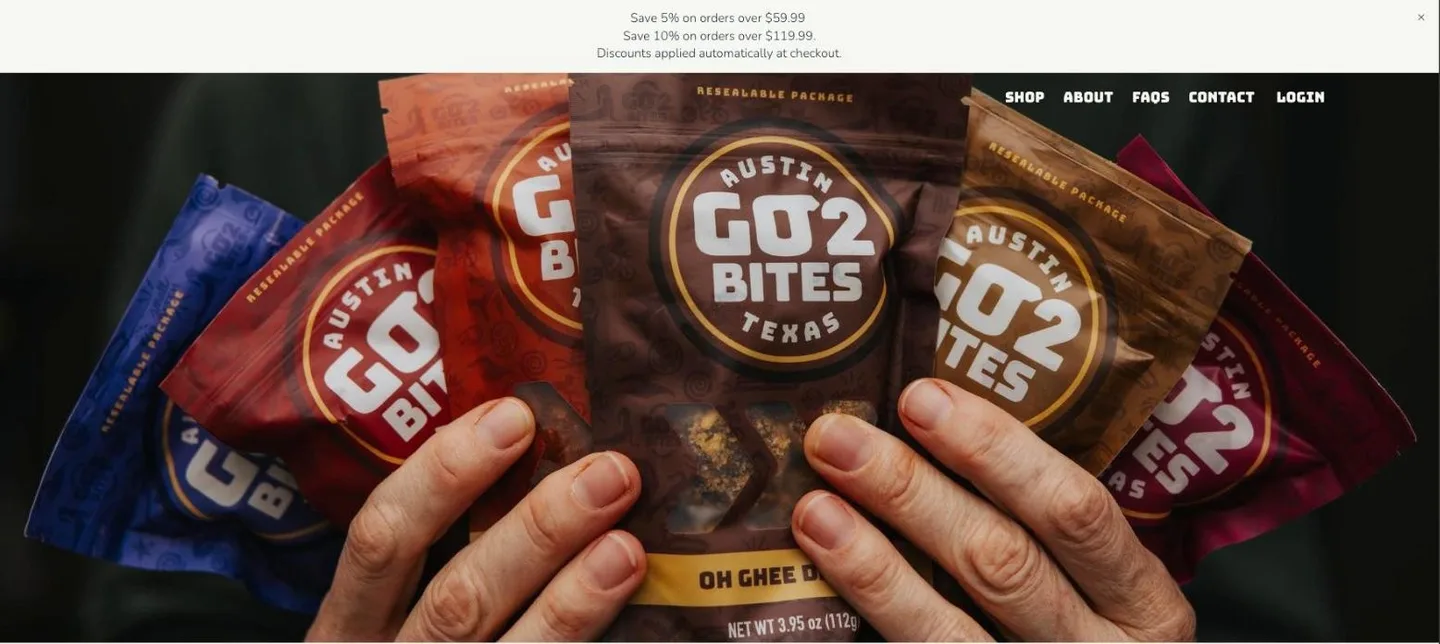
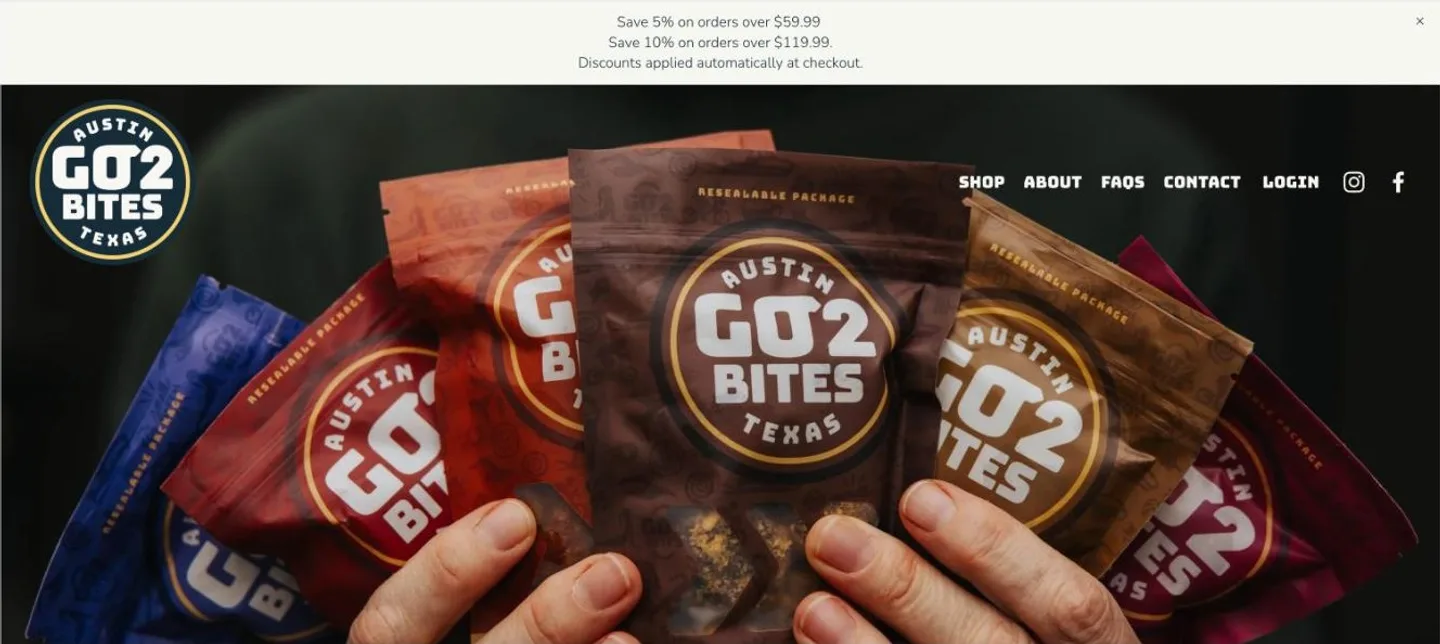
Add CellinKey website page, rework 10 Pillar with before and after, new Go2Bites before
Claude-Session: https://claude.ai/code/session_01VrLjWNHDC2yPVbyTY9J8pf

diff --git a/lib/projects.ts b/lib/projects.ts
@@ -82,7 +82,7 @@ const imageDimensions: Record<string, readonly [width: number, height: number]> 
   'go2bites/ingredient-spicy-cinnamon.jpg': [2000, 1600],
   'go2bites/ingredient-oh-ghee-dates.jpg': [2000, 1600],
   'go2bites/ingredient-cinnamon.jpg': [2000, 1600],
-  'go2bites/web-before-home.jpg': [1556, 696],
+  'go2bites/web-before-home.jpg': [1328, 594],
   'go2bites/web-after-home.jpg': [1556, 696],
   'go2bites/web-after-story.jpg': [1556, 696],
   'cellinkey/a000.jpg': [1800, 1201],
@@ -128,6 +128,17 @@ const imageDimensions: Record<string, readonly [width: number, height: number]> 
   'harvest-dating/thorns-frame-field.jpg': [1360, 768],
   'harvest-dating/thorns-barley.jpg': [768, 1360],
   'harvest-dating/thorns-blooming.jpg': [768, 1360],
+  '10-pillar-productions/web-before-home.jpg': [1328, 638],
+  '10-pillar-productions/web-after-home.jpg': [1566, 706],
+  '10-pillar-productions/web-after-about.jpg': [1566, 588],
+  '10-pillar-productions/web-after-book.jpg': [1566, 706],
+  '10-pillar-productions/web-after-films.jpg': [1566, 706],
+  'cellinkey-website/home-hero.jpg': [1560, 605],
+  'cellinkey-website/results-slider.jpg': [968, 661],
+  'cellinkey-website/five-step-system.jpg': [986, 661],
+  'cellinkey-website/add-system.jpg': [1260, 661],
+  'cellinkey-website/cart.jpg': [1560, 620],
+  'cellinkey-website/checkout.jpg': [1560, 706],
   'founder-films/wagner-wealth.jpg': [1237, 696],
   'founder-films/hiking-pony.jpg': [1237, 696],
   'founder-films/cold-cycle.jpg': [376, 629],
@@ -303,7 +314,7 @@ export const projects: Project[] = [
       media('cellinkey', 'a088.jpg', 'Dark serum bottle in a sculptural setting.'),
       text('carry the character online.', 'We carried the same product-first hierarchy into the website presentation, using the photography to connect individual items back to one coherent range. The digital experience stays focused on the product rather than adding a competing visual layer.'),
     ],
-    links: [{ label: 'visit the website', href: 'https://www.cellinkeyskincare.com/' }],
+    links: [{ label: 'see the website and checkout', href: '/work/cellinkey-website' }, { label: 'visit the website', href: 'https://www.cellinkeyskincare.com/' }],
   }),
   project({
     cardImage: '/work/cards/matchday.webp', cardAlt: 'MatchDay: more players, more games. An ad, the Instagram profile and a TikTok, with 3,458 app installs and 2,577 new followers.',
@@ -422,12 +433,20 @@ export const projects: Project[] = [
     links: [{ label: 'visit the website', href: 'https://smoothsailingsustainability.com/' }],
   }),
   project({
-    cardImage: '/work/cards/10-pillar-productions.webp', cardAlt: '10 Pillar Productions, the film portfolio website.',
+    cardImage: '/work/cards/10-pillar-productions.webp', cardAlt: '10 Pillar Productions, the full-screen film homepage.',
     slug: '10-pillar-productions', title: '10 Pillar Productions', tagline: 'A home for work made to be watched.',
-    summary: 'A portfolio website bringing films, commercial work, and booking information together.',
-    disciplines: ['Web'], services: ['Website'],
-    heroMedia: image('10-pillar-productions', 'web-10-pillar.jpg', 'The production company’s portfolio website.'),
-    contentModules: [text('let the work lead.', 'Film and commercial categories organize the portfolio, while an About page, events section, and booking route support visitors exploring the company or discussing a project.')],
+    summary: 'We redesigned the 10 Pillar Productions website around full-screen footage, clear film and commercial sections and a direct route to booking.',
+    disciplines: ['Web'], services: ['Website design', 'Website build', 'Site structure'],
+    heroMedia: image('10-pillar-productions', 'web-after-home.jpg', 'The new 10 Pillar Productions homepage: a full-screen film still behind the pillar mark and a short menu.'),
+    contentModules: [
+      text('from a busy menu to the footage.', '10 Pillar Productions makes narrative films, commercials, music videos and branded content. The old site opened on a large logo, a seven-item menu and a tagline before any of the work appeared. We rebuilt it so the footage leads: the homepage opens full screen on their films, with the pillar mark and a five-item menu laid over it.'),
+      pair('10-pillar-productions', ['web-before-home.jpg', 'Before: the old 10 Pillar homepage with a large gold logo and a seven-item menu.'], ['web-after-home.jpg', 'After: the new homepage, opening full screen on the footage.']),
+      text('organized the way clients look for work.', 'The menu now follows how people hire a production company: Films for feature length and short films, Commercial for brand work, Events, and Booking. The Films page opens straight onto the trailers.'),
+      media('10-pillar-productions', 'web-after-films.jpg', 'The Films page: feature length movies and short films, opening on the trailers.'),
+      text('a clear case, then a clear ask.', 'A bold statement and short company story sit next to behind-the-scenes photos, then a single Book With Us button and a scrolling list of what they make.'),
+      media('10-pillar-productions', 'web-after-about.jpg', 'The homepage introduction: a bold company statement over the company story.'),
+      media('10-pillar-productions', 'web-after-book.jpg', 'The Book With Us button and the scrolling list of services on the homepage.'),
+    ],
     note: 'Burgama’s scope is the website. Film production displayed on that site belongs to 10 Pillar Productions unless separately credited.',
     links: [{ label: 'visit the website', href: 'https://www.10pillarproductions.com/' }],
   }),
@@ -637,6 +656,25 @@ export const projects: Project[] = [
     links: [{ label: 'visit the website', href: 'https://hikingpony.com/' }],
   }),
   project({
+    cardImage: '/work/cards/cellinkey-website.webp', cardAlt: 'The CellinKey homepage with a before and after slider over the model video.',
+    slug: 'cellinkey-website', title: 'CellinKey website', client: 'CellinKey', parentSlug: 'cellinkey', collection: 'case-study',
+    tagline: 'Proof first, then a short path to checkout.',
+    summary: 'A Shopify storefront for CellinKey built around visible results, a one-click complete system and a checkout styled to match the brand.',
+    disciplines: ['Web'], services: ['Shopify development', 'Conversion design', 'Checkout design'], period: '2025 to 2026',
+    heroMedia: image('cellinkey-website', 'home-hero.jpg', 'The CellinKey homepage: a model video behind the headline Radiance Redefined, with a draggable before and after slider on the right.'),
+    contentModules: [
+      text('show the result before the pitch.', 'Skincare buyers want proof. The homepage opens on a model video with a draggable before and after slider built into the hero, so a visitor can see real skin results without scrolling. A full results gallery follows, with its own slider on every pair.'),
+      media('cellinkey-website', 'results-slider.jpg', 'The Real Results gallery: a draggable before and after slider comparing skin texture.'),
+      text('one decision, not five.', 'CellinKey sells a five-step routine. Instead of asking people to build it product by product, the homepage explains the system and what sets it apart, then offers the whole routine with one button and the savings next to it.'),
+      pair('cellinkey-website', ['five-step-system.jpg', 'The five-step system section with a single Add Complete System to Cart button.'], ['add-system.jpg', 'The confirmation that appears once the complete system is in the cart.']),
+      text('a checkout that feels like the brand.', 'The cart keeps to one product line, a clear total and express payment. The checkout carries the navy and white of the store, so the last step feels like the same site rather than a hand-off.'),
+      media('cellinkey-website', 'cart.jpg', 'The CellinKey cart with the 5-Step System, estimated total, Check out and Google Pay buttons.'),
+      media('cellinkey-website', 'checkout.jpg', 'The branded CellinKey checkout: express checkout, contact and delivery on navy, the order summary on the right.'),
+      text('more reasons to stay.', 'Further down the store we added a shoppable TikTok carousel that adds products to the cart from the video itself, an ingredient glossary that breaks each formula into tappable ingredient tags, and clear shipping information for the United States and Latin America.'),
+    ],
+    links: [{ label: 'visit the website', href: 'https://cellinkeyskincare.com/' }, { label: 'see the CellinKey photography', href: '/work/cellinkey' }],
+  }),
+  project({
     cardImage: '/work/cards/wagner-founder-film.webp', cardAlt: 'Still from the Wagner Wealth Management founder film.',
     slug: 'wagner-founder-film', title: 'Wagner Wealth founder film', client: 'Wagner Wealth Management', parentSlug: 'wagner-wealth', collection: 'case-study',
     tagline: 'A personal practice, explained by the person behind it.',
@@ -721,7 +759,7 @@ export const projects: Project[] = [
     contentModules: [
       { type: 'video', title: 'the founder, in her own words.', body: ['We filmed founder Basimma Hammonds in a family kitchen, telling the story of the snack she wanted and could not find.'], vimeoId: '1164559329', label: 'Go2Bites founder film' },
       text('from template to storefront.', 'The old site was a Squarespace template with a basic menu. We rebuilt Go2Bites on Shopify around the product: our photography leads the homepage, seasonal flavors rotate in the hero, store locations and shopping sit in the top navigation, and the founder film anchors its own page.'),
-      media('go2bites', 'web-before-home.jpg', 'Before: the Go2Bites homepage in December 2024.'),
+      media('go2bites', 'web-before-home.jpg', 'Before: the old Go2Bites Squarespace homepage.'),
       media('go2bites', 'web-after-home.jpg', 'After: the Go2Bites homepage today, led by our Pumpkin Spice product photo.'),
       media('go2bites', 'web-after-story.jpg', 'After: the new Our Story page on the Go2Bites site, built around the founder film.'),
     ],
